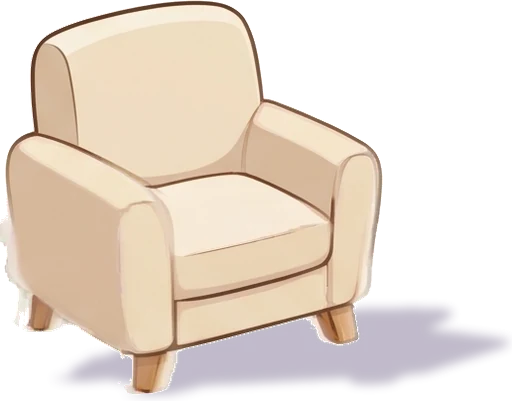
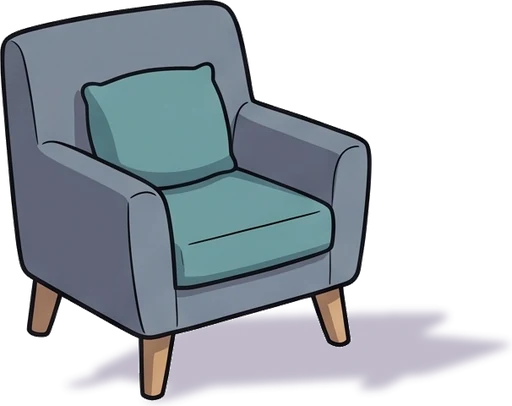
feat: Focus Desk room with the bed, wardrobe, desk and shelves drawn in; its sofa and armchair face the viewer

diff --git a/src/data/roomPlacement.test.ts b/src/data/roomPlacement.test.ts
@@ -506,24 +506,24 @@ describe('mission objects and the desk', () => {
   });
 
   describe('turning big items to the other wall', () => {
-    const focus = { ...baseProfile, themeId: 'focus-desk' } as LearnerProfile;
-    const { cornerX } = getRoomGeometry('focus-desk');
-    const sofaOnRightWall = placeRoomItemAt(focus, 'room-sofa', { x: 75, y: 88 }, NOW);
+    const urban = { ...baseProfile, themeId: 'urban-night' } as LearnerProfile;
+    const { cornerX } = getRoomGeometry('urban-night');
+    const sofaOnRightWall = placeRoomItemAt(urban, 'room-sofa', { x: 75, y: 88 }, NOW);
 
     it('marks only furniture with a front and a side as turnable', () => {
       ['room-sofa', 'object:bed', 'object:wardrobe', 'object:desk'].forEach((key) =>
-        expect(findEntry(key === 'room-sofa' ? sofaOnRightWall : focus, key)?.canRotate, key).toBe(true)
+        expect(findEntry(key === 'room-sofa' ? sofaOnRightWall : urban, key)?.canRotate, key).toBe(true)
       );
-      expect(findEntry(focus, 'object:phone')?.canRotate).toBe(false);
-      expect(findEntry(placeRoomItemAt(focus, 'room-books', { x: 70, y: 40 }, NOW), 'room-books')?.canRotate).toBe(false);
+      expect(findEntry(urban, 'object:phone')?.canRotate).toBe(false);
+      expect(findEntry(placeRoomItemAt(urban, 'room-books', { x: 70, y: 40 }, NOW), 'room-books')?.canRotate).toBe(false);
     });
 
     it('knows which wall a big item stands against from where it stands', () => {
       expect(findEntry(sofaOnRightWall, 'room-sofa')?.isOnLeftWall).toBe(false);
       // by default the bed and the wardrobe stand along the left wall, the desk along the right one
-      expect(findEntry(focus, 'object:bed')?.isOnLeftWall).toBe(true);
-      expect(findEntry(focus, 'object:wardrobe')?.isOnLeftWall).toBe(true);
-      expect(findEntry(focus, 'object:desk')?.isOnLeftWall).toBe(false);
+      expect(findEntry(urban, 'object:bed')?.isOnLeftWall).toBe(true);
+      expect(findEntry(urban, 'object:wardrobe')?.isOnLeftWall).toBe(true);
+      expect(findEntry(urban, 'object:desk')?.isOnLeftWall).toBe(false);
     });
 
     it('turns an item where it stands: only the picture changes wall, and turning twice turns it back', () => {
@@ -540,16 +540,16 @@ describe('mission objects and the desk', () => {
       const movedSofa = placeRoomItemAt(sofaOnRightWall, 'room-sofa', { x: 20, y: 92 }, NOW);
       expect(findEntry(movedSofa, 'room-sofa')!.point.x).toBeLessThan(cornerX);
       expect(findEntry(movedSofa, 'room-sofa')!.isOnLeftWall).toBe(false);
-      const movedDesk = moveRoomObject(focus, 'desk', { x: 20, y: 95 }, NOW);
+      const movedDesk = moveRoomObject(urban, 'desk', { x: 20, y: 95 }, NOW);
       expect(findEntry(movedDesk, 'object:desk')!.isOnLeftWall).toBe(false);
-      const turnedThenMoved = moveRoomObject(turnRoomItem(focus, 'object:desk', NOW), 'desk', { x: 85, y: 95 }, NOW);
+      const turnedThenMoved = moveRoomObject(turnRoomItem(urban, 'object:desk', NOW), 'desk', { x: 85, y: 95 }, NOW);
       expect(findEntry(turnedThenMoved, 'object:desk')!.isOnLeftWall).toBe(true);
     });
 
     it('keeps a turned item on the floor, below the baseboard', () => {
-      const geometry = getRoomGeometry('focus-desk');
+      const geometry = getRoomGeometry('urban-night');
       ['room-sofa', 'object:bed', 'object:wardrobe', 'object:desk'].forEach((key) => {
-        const profile = turnRoomItem(key === 'room-sofa' ? sofaOnRightWall : focus, key, NOW);
+        const profile = turnRoomItem(key === 'room-sofa' ? sofaOnRightWall : urban, key, NOW);
         const entry = findEntry(profile, key)!;
         expect(entry.point.y, key).toBeGreaterThanOrEqual(floorEdgeY(geometry, entry.point.x));
         expect(entry.item.slotKind, key).toBe('floor');
@@ -557,7 +557,7 @@ describe('mission objects and the desk', () => {
     });
 
     it('turns the desk with what lies on it', () => {
-      const turned = turnRoomItem(focus, 'object:desk', NOW);
+      const turned = turnRoomItem(urban, 'object:desk', NOW);
       const desk = findEntry(turned, 'object:desk')!;
       expect(desk.isOnLeftWall).toBe(true);
       const phone = findEntry(turned, 'object:phone')!;
@@ -566,8 +566,8 @@ describe('mission objects and the desk', () => {
     });
 
     it('leaves items that cannot turn, and unknown keys, unchanged', () => {
-      expect(turnRoomItem(focus, 'object:phone', NOW)).toBe(focus);
-      expect(turnRoomItem(focus, 'nope', NOW)).toBe(focus);
+      expect(turnRoomItem(urban, 'object:phone', NOW)).toBe(urban);
+      expect(turnRoomItem(urban, 'nope', NOW)).toBe(urban);
     });
   });
 

diff --git a/src/data/roomGeometry.ts b/src/data/roomGeometry.ts
@@ -527,7 +527,63 @@ const ROOM_GEOMETRY: Record<ThemeId, RoomGeometry> = {
     gamesBook: { x: 58, y: 88 },
     avatarHome: { x: 50, y: 91 },
   }),
-  'focus-desk': cornerRoom({ cornerX: 57, window: { xMin: 10, xMax: 52, yMin: 6, yMax: 71 }, edge: [90, 64.5, 75], sill: { xMin: 16, xMax: 44, y: 66 } }),
+  'focus-desk': bakedRoom({
+    cornerX: 58.75,
+    window: { xMin: 30.5, xMax: 53, yMin: 14, yMax: 49 },
+    edge: [76.6, 62.5, 79.7],
+    wallLeft: { xMin: 7, xMax: 24, yMin: 13, yMax: 21 },
+    wallRight: { xMin: 87, xMax: 95, yMin: 17, yMax: 27 },
+    board: { xMin: 66, xMax: 78, yMin: 14, yMax: 15.5 },
+    shelves: [
+      { id: 'shelf-high', xMin: 63, xMax: 81, y: 25, tilt: 0.02 },
+      { id: 'shelf-low', xMin: 76.5, xMax: 96, y: 37.4, tilt: 0.08 },
+      { id: 'window-sill', xMin: 32.5, xMax: 51.5, y: 46 },
+    ],
+    baked: {
+      roomPicture: '/art/focus-desk/room-baked.webp',
+      pieces: [
+        {
+          id: 'wardrobe',
+          tapArea: [{ x: 4, y: 26 }, { x: 9, y: 24.5 }, { x: 26, y: 24.5 }, { x: 28, y: 27 }, { x: 28, y: 75.5 }, { x: 12, y: 81.5 }, { x: 9, y: 81.5 }, { x: 4, y: 76 }],
+          standAt: { x: 24, y: 84 },
+          bubbleAt: { x: 16, y: 22 },
+        },
+        {
+          id: 'bed',
+          tapArea: [{ x: 30.5, y: 56 }, { x: 34, y: 53 }, { x: 47, y: 51 }, { x: 57.5, y: 47 }, { x: 58, y: 41.5 }, { x: 60, y: 40.5 }, { x: 70.5, y: 43 }, { x: 71.5, y: 45.5 }, { x: 71.5, y: 54 }, { x: 66.5, y: 55 }, { x: 66.5, y: 65 }, { x: 44, y: 76.5 }, { x: 41, y: 76.5 }, { x: 30.5, y: 69 }],
+          standAt: { x: 50, y: 84 },
+          bubbleAt: { x: 64, y: 37 },
+        },
+        {
+          id: 'desk',
+          tapArea: [{ x: 66.5, y: 55 }, { x: 76.7, y: 52.3 }, { x: 98, y: 58.8 }, { x: 98, y: 61 }, { x: 97.2, y: 78.6 }, { x: 88, y: 84.3 }, { x: 86.4, y: 84 }, { x: 85.6, y: 70 }, { x: 77.5, y: 70 }, { x: 67.3, y: 73.8 }, { x: 66.3, y: 57 }],
+          standAt: { x: 76, y: 86 },
+          bubbleAt: { x: 85, y: 52 },
+        },
+      ],
+      freeFloorEdge: [
+        { x: 0, y: 76.6 },
+        { x: 4, y: 75.8 },
+        { x: 9, y: 81.8 },
+        { x: 12, y: 81.8 },
+        { x: 28, y: 76 },
+        { x: 28.5, y: 70 },
+        { x: 30.5, y: 69.4 },
+        { x: 31, y: 69.5 },
+        { x: 41, y: 77 },
+        { x: 44, y: 77 },
+        { x: 66.5, y: 65.3 },
+        { x: 67, y: 74 },
+        { x: 86.4, y: 84.5 },
+        { x: 88, y: 84.8 },
+        { x: 97.2, y: 79 },
+        { x: 100, y: 79.7 },
+      ],
+      deskTop: [{ x: 67.5, y: 55.5 }, { x: 76.7, y: 53 }, { x: 97, y: 59.3 }, { x: 88, y: 64.3 }],
+    },
+    gamesBook: { x: 55, y: 90 },
+    avatarHome: { x: 50, y: 92 },
+  }),
   'urban-night': cornerRoom({ cornerX: 57.5, window: { xMin: 10, xMax: 49, yMin: 4, yMax: 66 }, edge: [89, 63.5, 75], sill: { xMin: 14, xMax: 44, y: 63 } }),
   'travel-journal': cornerRoom({ cornerX: 55.5, window: { xMin: 8, xMax: 50, yMin: 2, yMax: 66 }, edge: [89, 63.5, 84], sill: { xMin: 25, xMax: 47, y: 56 } }),
 };

diff --git a/src/components/room/RoomScene.test.tsx b/src/components/room/RoomScene.test.tsx
@@ -9,11 +9,11 @@ import { RoomScene } from './RoomScene';
 const NOW = new Date('2026-10-29T10:00:00.000Z');
 
 /** A room whose furniture is movable (not drawn into the room picture). */
-const focusProfile = () => makeProfile({ themeId: 'focus-desk' });
+const urbanProfile = () => makeProfile({ themeId: 'urban-night' });
 
 const profileWithSofa = () =>
   placeRoomItemAt(
-    makeProfile({ themeId: 'focus-desk', unlockedRewardIds: ['room-sofa'], room: { ...getRoom(makeProfile()), placements: {} } }),
+    makeProfile({ themeId: 'urban-night', unlockedRewardIds: ['room-sofa'], room: { ...getRoom(makeProfile()), placements: {} } }),
     'room-sofa',
     { x: 75, y: 88 },
     NOW
@@ -22,7 +22,7 @@ const profileWithSofa = () =>
 function renderScene(profile: ReturnType<typeof makeProfile>, moveRequestKey: string | null = null) {
   return render(
     <RoomScene
-      themeId="focus-desk"
+      themeId="urban-night"
       avatarEmoji="🐶"
       entries={getPlacedRoomEntries(profile)}
       avatarPos={AVATAR_HOME}
@@ -42,27 +42,27 @@ describe('RoomScene turned items', () => {
   it('shows the right-wall sofa picture, and the left-wall picture once the sofa is turned to the other wall', () => {
     const profile = profileWithSofa();
     const { unmount } = renderScene(profile);
-    expect(pictureOf('sofa · ספה')).toBe('/art/room/focus-desk/room-sofa.webp');
+    expect(pictureOf('sofa · ספה')).toBe('/art/room/urban-night/room-sofa.webp');
     unmount();
 
     renderScene(turnRoomItem(profile, 'room-sofa', NOW));
-    expect(pictureOf('sofa · ספה')).toBe('/art/room/focus-desk/room-sofa-b.webp');
+    expect(pictureOf('sofa · ספה')).toBe('/art/room/urban-night/room-sofa-b.webp');
   });
 });
 
 describe('RoomScene moving the games book', () => {
   it('shows both the floor and the desk top as places for the book', () => {
-    const { container } = renderScene(focusProfile(), 'object:games-book');
+    const { container } = renderScene(urbanProfile(), 'object:games-book');
     expect(container.querySelectorAll('[data-zone]')).toHaveLength(2);
   });
 
   it('shows only the floor as a place for the bed', () => {
-    const { container } = renderScene(focusProfile(), 'object:bed');
+    const { container } = renderScene(urbanProfile(), 'object:bed');
     expect(container.querySelectorAll('[data-zone]')).toHaveLength(1);
   });
 
   it('outlines a corner room floor along its baseboard, down to the bottom of the picture', () => {
-    const { container } = renderScene(focusProfile(), 'object:bed');
+    const { container } = renderScene(urbanProfile(), 'object:bed');
     const outline = container.querySelector('[data-zone="floor"] polygon')?.getAttribute('points') ?? '';
     const points = outline.split(' ').map((pair) => pair.split(',').map(Number));
     expect(points.length).toBeGreaterThan(10);

diff --git a/src/data/roomArtManifest.ts b/src/data/roomArtManifest.ts
@@ -138,10 +138,10 @@ export const ROOM_ART: Record<string, Record<string, RoomArtSprite>> = {
     'furniture-shelf-low': { aspect: 1.5284, left: 0.0, right: 1.0, top: 0.0, bottom: 1.0, slope: -0.507 },
     'furniture-sill': { aspect: 1.5422, left: 0.0, right: 1.0, top: 0.0, bottom: 1.0, slope: -0.499 },
     'furniture-board': { aspect: 0.8058, left: 0.0, right: 1.0, top: 0.0, bottom: 1.0, slope: -0.531 },
-    'room-sofa': { aspect: 1.7534, left: 0.0, right: 0.8174, top: 0.0, bottom: 0.9856, slope: 0.233 },
-    'room-sofa-b': { aspect: 1.784, left: 0.0, right: 0.8054, top: 0.0, bottom: 0.9856, slope: -0.241 },
-    'room-chair': { aspect: 1.3509, left: 0.0, right: 0.707, top: 0.0, bottom: 0.9851, slope: 0.258 },
-    'room-chair-b': { aspect: 1.2768, left: 0.0, right: 0.7481, top: 0.0, bottom: 0.9851, slope: -0.248 },
+    'room-sofa': { aspect: 1.7595, left: 0.0, right: 0.7874, top: 0.0, bottom: 0.9855, slope: 0.0 },
+    'room-sofa-b': { aspect: 1.7595, left: 0.0, right: 0.7874, top: 0.0, bottom: 0.9855, slope: 0.0 },
+    'room-chair': { aspect: 1.2611, left: 0.0, right: 0.7261, top: 0.0, bottom: 0.9875, slope: 0.0 },
+    'room-chair-b': { aspect: 1.2611, left: 0.0, right: 0.7261, top: 0.0, bottom: 0.9875, slope: 0.0 },
     'object-bed': { aspect: 1.7297, left: 0.0, right: 0.7211, top: 0.0, bottom: 0.9876, slope: 0.225 },
     'object-bed-b': { aspect: 1.4262, left: 0.0, right: 0.8743, top: 0.0, bottom: 0.9876, slope: -0.225 },
     'object-wardrobe': { aspect: 1.1584, left: 0.0, right: 0.5661, top: 0.0, bottom: 0.99, slope: 0.161 },

diff --git a/scripts/art/process_room_art.py b/scripts/art/process_room_art.py
@@ -81,6 +81,8 @@ FRONT_PICKS = {
     'cozy-studio/room-chair': 3,
     'neon-pop/room-sofa': 2,
     'neon-pop/room-chair': 1,
+    'focus-desk/room-sofa': 3,
+    'focus-desk/room-chair': 2,
 }
 SHADOW_SQUASH = 0.22  # the shadow's height as a share of the object's (light from high up on the left)
 SHADOW_LEAN = 0.55  # pixels to the right per pixel of the object's height

diff --git a/docs/architecture.md b/docs/architecture.md
@@ -195,7 +195,7 @@ Each learning mission consists of 5 pedagogical drill stages:
 
 ### 4.12. My English Room (`room.ts`, `wardrobe.ts`, `roomRewards.ts`, `roomActivities.ts`, `voiceMessages.ts`, `dreamJournal.ts`, `wordGames.ts`, `stickers.ts`, `components/room/`)
 - The "החדר שלי" home dock tile opens the room full-screen; its dot shows while an earned item waits to be placed.
-- **The room** (`RoomScene`): a drawn wall/floor scene, drawn furniture (`public/art/room/*.webp`: two shelves, the window sill, the desk and the sticker board, made with `scripts/art/renderRoomFurniture.mjs` and `scripts/art/process_room_furniture.py`; `FURNITURE_PIECES` in `roomLayout.ts`) and four mission objects: 🛏 bed, 📱 phone, 🚪 wardrobe, 📖 Games Book. **Free placement** (`data/roomPlacement.ts`): items stand on *surfaces* (`ROOM_SURFACES`: wall-left/right, board, shelf-high, shelf-low, window-sill, desk-top, floor), each for one `slotKind`. A point is the item's feet (shelf, desk, floor) or centre (wall, board), in scene %. `snapToSurface` puts any point on the nearest surface of the item's kind, `findFreePoint` moves a drop off other items, floor items scale with depth (`getDepthScale`), and a soft shadow sits under standing items. **Moving**: drag with mouse or touch (`useRoomItemDrag`, 6 px threshold so a tap still taps; the surfaces show as dashed zones while dragging), or with the keyboard: focus an item or press "הזזה", arrows move, Up/Down or PageUp/PageDown change surface, Enter drops, Esc cancels, with a Hebrew live announcement. **Everything is movable**: the mission objects (bed, wardrobe, phone, games book) and the desk are entries too (key `object:<id>`, `room.positions`; `moveRoomObject` / `moveRoomEntry`, defaults in `getPlacedRoomEntries`). Big furniture (bed, wardrobe, desk, sofa) stands on the floor surface (feet at the floor depth, width-aware edge and overlap rules, `getItemWidth` gives believable relative sizes), and the desk top is a surface that follows the desk (`getRoomLayout`, `getDeskTopPoint`): moving the desk carries the phone and the small items on it. The icons have transparent padding, so the scene anchors an item's feet and its contact shadow on the drawn object's visible bottom (`data/roomIconBounds.ts`, generated by `python scripts/art/measure_icon_bounds.py` from the icon alpha; re-run it when a room item gets a new icon): the shadow is an ellipse 70% of the footprint, centred on the feet. z-order follows the feet's y, with desk items above the desk. Tapping the stickers button with no stickers owned opens `StickersLockedSheet` (gendered Hebrew from `getHebrewCopy`, read aloud for grades 1–2, button to the shop; its two lines are in the Hebrew TTS corpus, so run `npm run tts:render:he -- submit` / `collect` to give them clips, until then the online voice reads them); an opened panel scrolls into view. A new item is chosen in the inventory, a zone is tapped, and the item is named as before. **Corner rooms** (`data/roomGeometry.ts`): each theme has a corner room picture, `public/art/<theme>/room-corner.webp` (`art.roomCorner`, 4:3, drawn by the pilot script `scripts/art/renderRoomPilot.mjs`), and a `RoomGeometry` measured on it: the corner x, the baseboard line (`floorEdge`, not level), the zones for hanging items, the shelf lines, sill and sticker board (right wall), and where the bed, wardrobe, desk and book stand until moved. `getRoomLayout(profile)` carries it (`layout.geometry`), `getSurfaces` builds the surfaces from it (floor items stay below the baseboard: `RoomSurface.minYAt`), `getDepthScale` and `getDeskTopPoint` take it, and saved positions are pulled back inside the room on read (`settle`; the original room, `LEGACY_GEOMETRY`, keeps points exactly as saved and is the fallback for an unknown theme). The first front-on pictures (`room-bg.webp`) stay in `public/art` unused. Furniture sprites (`getFurniturePieces`: the two shelves and the board, from the themed pictures in `public/art/room/<theme>/`; no sill is drawn, the room pictures have their own window ledge) and the item pictures come from `ROOM_ART` (`data/roomArt.ts`, generated by `scripts/art/process_room_art.py`; drawn with `scripts/art/renderRoomArt.mjs`). The games book may also lie on the desk top (`getObjectMoveKinds`, `OBJECT_EXTRA_KINDS`: an object with extra kinds ends up on whichever of its surfaces the drop is nearest, its kind follows where it stands, and the drag zones show both); what lies on the desk follows the desk top exactly when the desk moves. **Turning to the other wall** (`turnRoomItem`, `getOtherWallPoint`): sofa, chair, bed, wardrobe and desk (`ROTATABLE_KEYS`) stand against a wall, and their picture follows the wall (`PlacedRoomEntry.isOnLeftWall`: left of the geometry's `cornerX`): each has a right-wall picture and a second, left-wall picture (`<id>-b`, drawn the other way round with its shadow still on the right). Dragging such an item across the corner switches its picture; the icon-only 🔄 button moves it to the matching spot against the other wall (same distance along the wall and from the baseboard), so it never floats away from the wall it was against. The desk takes what lies on it along. The button sits next to move / put away (also after tapping a bed, wardrobe or desk) and has no visible Hebrew text, so nothing new is read aloud. Nothing about the turn is stored: the wall follows from the item's position. Wall pictures, board stickers and things on the sill are drawn for the right wall and mirrored on the left (`getRoomSprite`'s `canMirror`); floor and desk items with a baked shadow are never mirrored. Per-theme colours stay in `roomLayout.ts`. The equipped shop avatar walks to whatever the learner taps. **Rooms with the furniture drawn in** (Starlight, Cozy Studio and Neon Pop so far; the other themes switch one by one, then the movable-furniture code goes): the room picture `public/art/<theme>/room-baked.webp` has the bed, wardrobe, desk and both shelves drawn in, in the same places in every theme (drawn with `scripts/art/renderBakedRoom.mjs`: a 2 × 2 sheet of takes, a pick, small fixes with the pick as reference, `batch <theme>` for several takes at half price; cut to 4:3 by `scripts/art/process_baked_room.py`). `RoomGeometry.baked` holds what was measured on it: for each piece a tap area, a spot for the avatar and a spot for its name (`getFixedFurniture`; RoomScene draws an invisible, focusable button over each piece, RoomScreen walks the avatar there and opens its activity), the line along the front of the furniture that floor items stay in front of across their whole width (`freeFloorEdge`), the drawn desk top (`deskTop`) and the shelf lines with their own tilt. In such a room the bed, wardrobe and desk are not entries (no move, no turn), no piece turns, and positions or facings saved for them stay in the profile unused. There is no sticker board: stickers hang on the free walls or stand on the drawn shelves (`getSurfaces('board')`). The sofa and armchair face the viewer (`renderRoomArt.mjs front`, a sheet of takes drawn with the room as reference; the picked take is named in `FRONT_PICKS` in `process_room_art.py`, level, with a made shadow) and move on the free floor.
+- **The room** (`RoomScene`): a drawn wall/floor scene, drawn furniture (`public/art/room/*.webp`: two shelves, the window sill, the desk and the sticker board, made with `scripts/art/renderRoomFurniture.mjs` and `scripts/art/process_room_furniture.py`; `FURNITURE_PIECES` in `roomLayout.ts`) and four mission objects: 🛏 bed, 📱 phone, 🚪 wardrobe, 📖 Games Book. **Free placement** (`data/roomPlacement.ts`): items stand on *surfaces* (`ROOM_SURFACES`: wall-left/right, board, shelf-high, shelf-low, window-sill, desk-top, floor), each for one `slotKind`. A point is the item's feet (shelf, desk, floor) or centre (wall, board), in scene %. `snapToSurface` puts any point on the nearest surface of the item's kind, `findFreePoint` moves a drop off other items, floor items scale with depth (`getDepthScale`), and a soft shadow sits under standing items. **Moving**: drag with mouse or touch (`useRoomItemDrag`, 6 px threshold so a tap still taps; the surfaces show as dashed zones while dragging), or with the keyboard: focus an item or press "הזזה", arrows move, Up/Down or PageUp/PageDown change surface, Enter drops, Esc cancels, with a Hebrew live announcement. **Everything is movable**: the mission objects (bed, wardrobe, phone, games book) and the desk are entries too (key `object:<id>`, `room.positions`; `moveRoomObject` / `moveRoomEntry`, defaults in `getPlacedRoomEntries`). Big furniture (bed, wardrobe, desk, sofa) stands on the floor surface (feet at the floor depth, width-aware edge and overlap rules, `getItemWidth` gives believable relative sizes), and the desk top is a surface that follows the desk (`getRoomLayout`, `getDeskTopPoint`): moving the desk carries the phone and the small items on it. The icons have transparent padding, so the scene anchors an item's feet and its contact shadow on the drawn object's visible bottom (`data/roomIconBounds.ts`, generated by `python scripts/art/measure_icon_bounds.py` from the icon alpha; re-run it when a room item gets a new icon): the shadow is an ellipse 70% of the footprint, centred on the feet. z-order follows the feet's y, with desk items above the desk. Tapping the stickers button with no stickers owned opens `StickersLockedSheet` (gendered Hebrew from `getHebrewCopy`, read aloud for grades 1–2, button to the shop; its two lines are in the Hebrew TTS corpus, so run `npm run tts:render:he -- submit` / `collect` to give them clips, until then the online voice reads them); an opened panel scrolls into view. A new item is chosen in the inventory, a zone is tapped, and the item is named as before. **Corner rooms** (`data/roomGeometry.ts`): each theme has a corner room picture, `public/art/<theme>/room-corner.webp` (`art.roomCorner`, 4:3, drawn by the pilot script `scripts/art/renderRoomPilot.mjs`), and a `RoomGeometry` measured on it: the corner x, the baseboard line (`floorEdge`, not level), the zones for hanging items, the shelf lines, sill and sticker board (right wall), and where the bed, wardrobe, desk and book stand until moved. `getRoomLayout(profile)` carries it (`layout.geometry`), `getSurfaces` builds the surfaces from it (floor items stay below the baseboard: `RoomSurface.minYAt`), `getDepthScale` and `getDeskTopPoint` take it, and saved positions are pulled back inside the room on read (`settle`; the original room, `LEGACY_GEOMETRY`, keeps points exactly as saved and is the fallback for an unknown theme). The first front-on pictures (`room-bg.webp`) stay in `public/art` unused. Furniture sprites (`getFurniturePieces`: the two shelves and the board, from the themed pictures in `public/art/room/<theme>/`; no sill is drawn, the room pictures have their own window ledge) and the item pictures come from `ROOM_ART` (`data/roomArt.ts`, generated by `scripts/art/process_room_art.py`; drawn with `scripts/art/renderRoomArt.mjs`). The games book may also lie on the desk top (`getObjectMoveKinds`, `OBJECT_EXTRA_KINDS`: an object with extra kinds ends up on whichever of its surfaces the drop is nearest, its kind follows where it stands, and the drag zones show both); what lies on the desk follows the desk top exactly when the desk moves. **Turning to the other wall** (`turnRoomItem`, `getOtherWallPoint`): sofa, chair, bed, wardrobe and desk (`ROTATABLE_KEYS`) stand against a wall, and their picture follows the wall (`PlacedRoomEntry.isOnLeftWall`: left of the geometry's `cornerX`): each has a right-wall picture and a second, left-wall picture (`<id>-b`, drawn the other way round with its shadow still on the right). Dragging such an item across the corner switches its picture; the icon-only 🔄 button moves it to the matching spot against the other wall (same distance along the wall and from the baseboard), so it never floats away from the wall it was against. The desk takes what lies on it along. The button sits next to move / put away (also after tapping a bed, wardrobe or desk) and has no visible Hebrew text, so nothing new is read aloud. Nothing about the turn is stored: the wall follows from the item's position. Wall pictures, board stickers and things on the sill are drawn for the right wall and mirrored on the left (`getRoomSprite`'s `canMirror`); floor and desk items with a baked shadow are never mirrored. Per-theme colours stay in `roomLayout.ts`. The equipped shop avatar walks to whatever the learner taps. **Rooms with the furniture drawn in** (Starlight, Cozy Studio, Neon Pop and Focus Desk so far; the other themes switch one by one, then the movable-furniture code goes): the room picture `public/art/<theme>/room-baked.webp` has the bed, wardrobe, desk and both shelves drawn in, in the same places in every theme (drawn with `scripts/art/renderBakedRoom.mjs`: a 2 × 2 sheet of takes, a pick, small fixes with the pick as reference, `batch <theme>` for several takes at half price; cut to 4:3 by `scripts/art/process_baked_room.py`). `RoomGeometry.baked` holds what was measured on it: for each piece a tap area, a spot for the avatar and a spot for its name (`getFixedFurniture`; RoomScene draws an invisible, focusable button over each piece, RoomScreen walks the avatar there and opens its activity), the line along the front of the furniture that floor items stay in front of across their whole width (`freeFloorEdge`), the drawn desk top (`deskTop`) and the shelf lines with their own tilt. In such a room the bed, wardrobe and desk are not entries (no move, no turn), no piece turns, and positions or facings saved for them stay in the profile unused. There is no sticker board: stickers hang on the free walls or stand on the drawn shelves (`getSurfaces('board')`). The sofa and armchair face the viewer (`renderRoomArt.mjs front`, a sheet of takes drawn with the room as reference; the picked take is named in `FRONT_PICKS` in `process_room_art.py`, level, with a made shadow) and move on the free floor.
 - **Mission objects** show a "coming soon" bubble with their activity until later phases ship.
 - **Items**: 20 room items (`ROOM_ITEMS`) plus the shop decor lamp and the 3 shop stickers (`SHOP_ROOM_ITEMS`). Every learner starts with the 🪴 plant. Ownership reuses `unlockedRewardIds`.
 - **Earning**: a mission's *first* 3-star result awards the next unowned item in `ROOM_REWARD_ORDER` (`roomRewards.ts`), which alternates room decor and wardrobe items. The victory screen previews it and the dashboard shows a toast.
